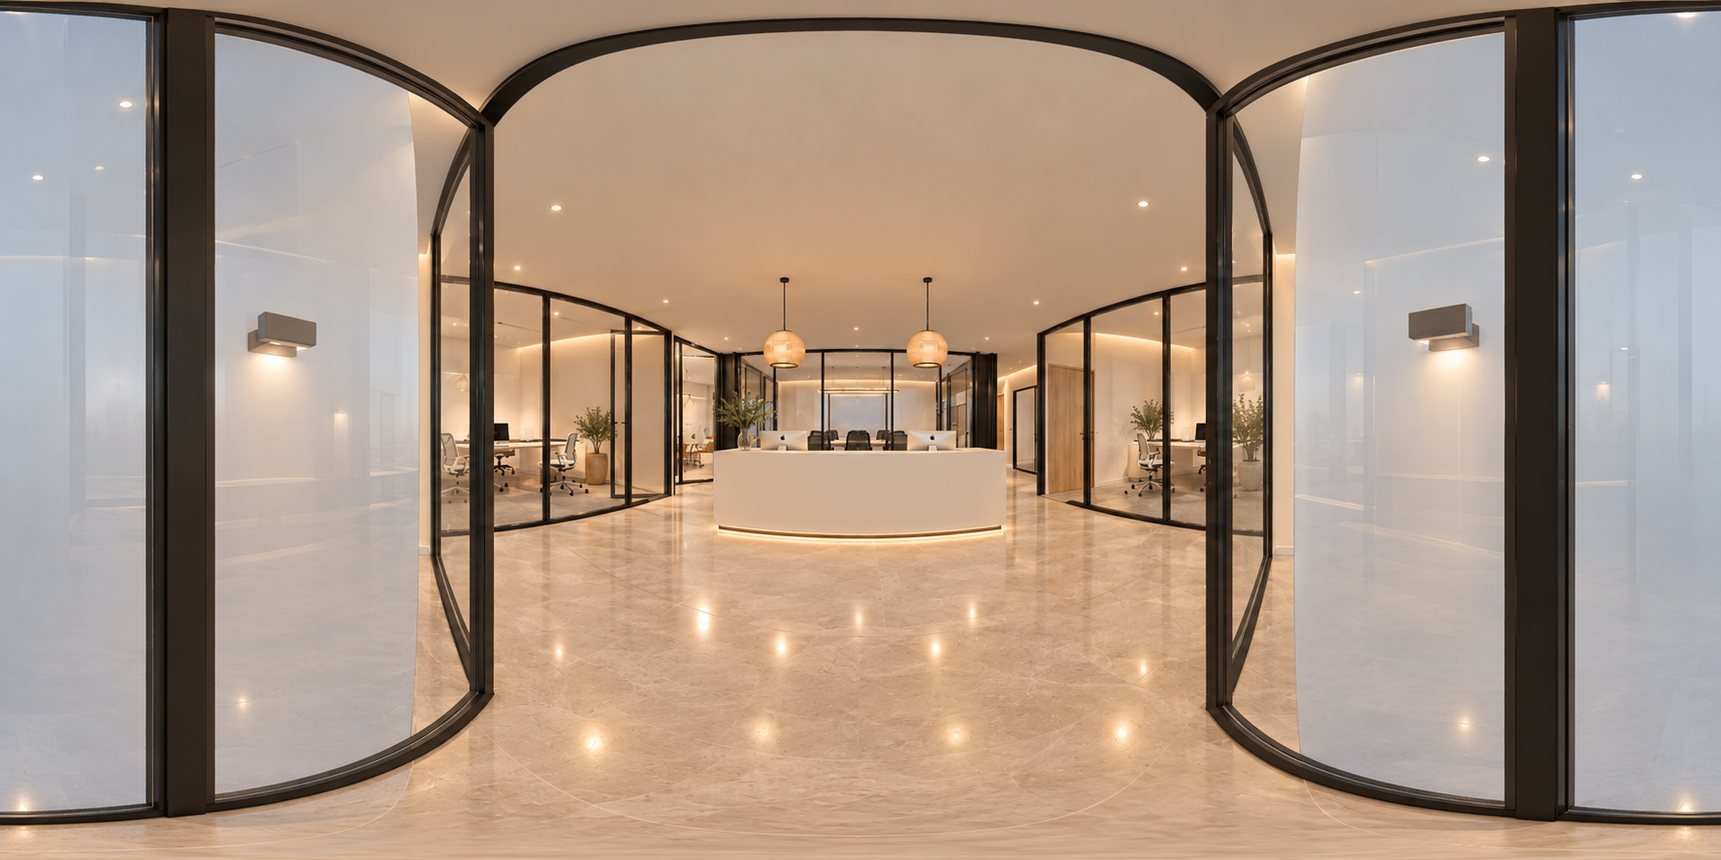
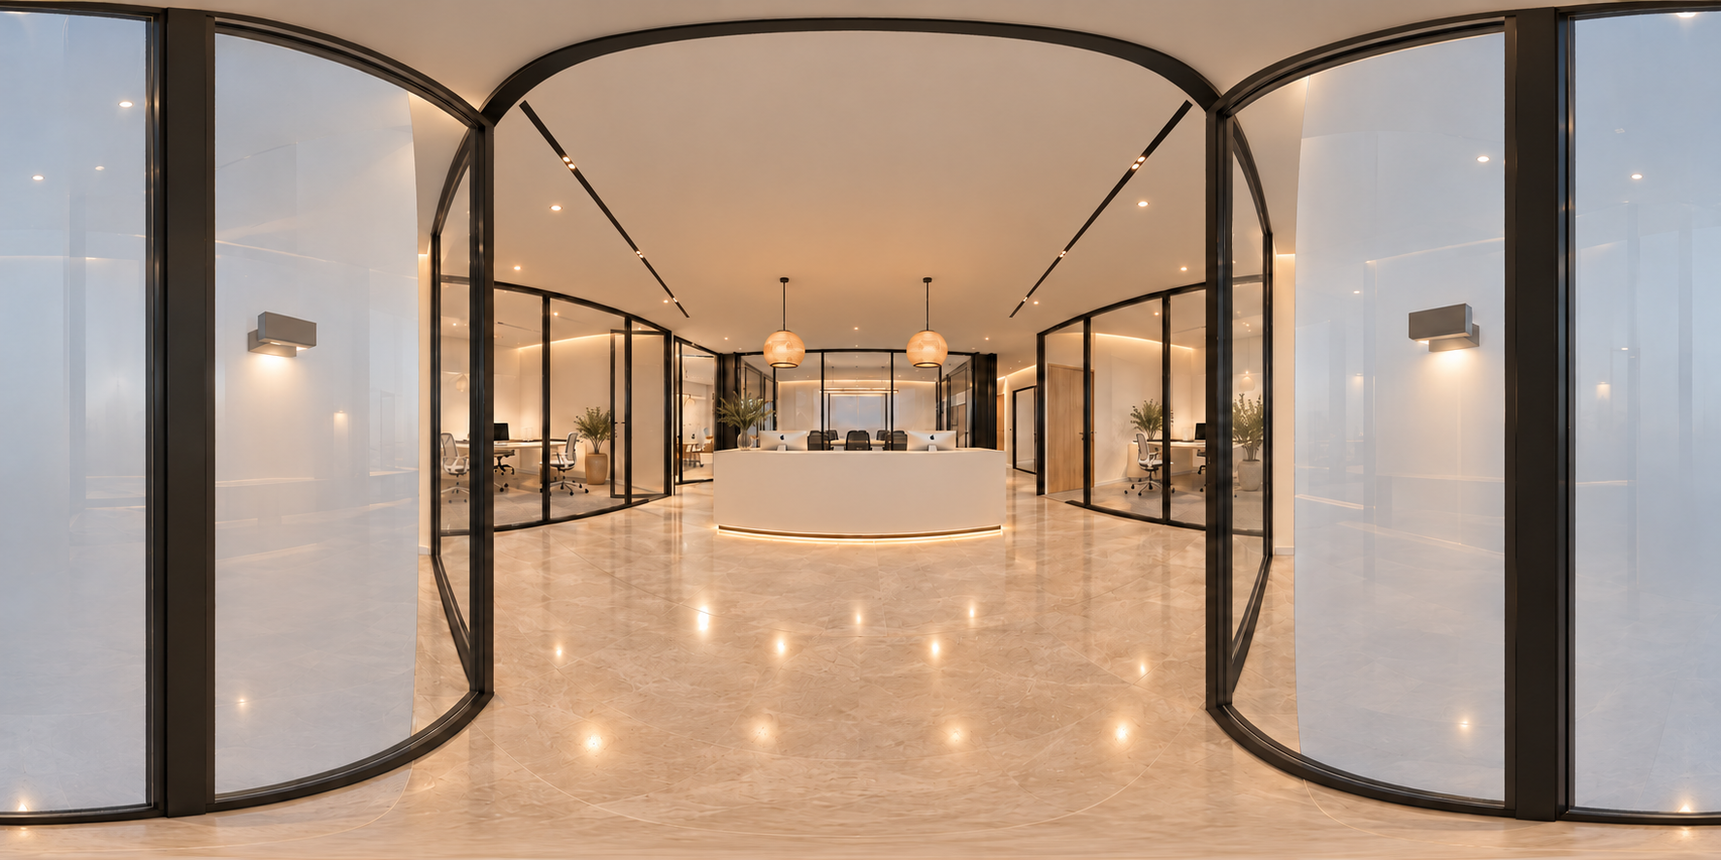
RENDU

diff --git a/viewer.html b/viewer.html
@@ -1,9 +1,10 @@
 <!doctype html><html lang="fr"><head><meta charset="utf-8"><meta name="viewport" content="width=device-width,initial-scale=1"><title>Parcours — Hatem Ellouze</title><style>
 *{box-sizing:border-box}body{margin:0;background:#151612;color:#fff;font:14px system-ui,sans-serif}button{font:inherit;color:inherit;cursor:pointer}button:focus-visible,canvas:focus-visible{outline:3px solid #e8c89d;outline-offset:4px}#tour{position:relative;height:100dvh;min-height:420px;overflow:hidden}canvas{display:block;width:100%;height:100%;touch-action:none;cursor:grab;transition:opacity .22s}canvas:active{cursor:grabbing}header{position:absolute;inset:0 0 auto;padding:26px 30px 65px;background:linear-gradient(#0009,transparent);pointer-events:none;display:flex;justify-content:space-between;gap:20px}.eyebrow{font-size:10px;letter-spacing:3px;text-transform:uppercase;opacity:.85}h1{font:normal clamp(23px,3vw,37px) Georgia,serif;margin:9px 0 5px}#level{font-size:12px;opacity:.8}#count{font-size:13px;letter-spacing:2px;padding-top:7px}.glass{border:1px solid #ffffff30;background:#22241ee6;backdrop-filter:blur(15px);border-radius:24px;padding:11px 17px}.glass:hover{background:#454336}#toolbar{position:absolute;bottom:22px;left:15px;right:15px;display:flex;justify-content:center;flex-wrap:wrap;gap:7px}#hint{position:absolute;bottom:82px;left:15px;right:15px;text-align:center;font-size:12px;text-shadow:0 1px 6px #000;pointer-events:none}#status{position:absolute;left:50%;top:50%;transform:translate(-50%,-50%);background:#20211cdd;padding:18px 24px;border-radius:14px;z-index:9;text-align:center}#spots{position:absolute;inset:0;pointer-events:none}.spot{position:absolute;transform:translate(-50%,-50%);border:0;background:transparent;pointer-events:auto;display:flex;flex-direction:column;align-items:center;gap:6px;white-space:nowrap;padding:8px;filter:drop-shadow(0 2px 5px #0009)}.spot[hidden]{display:none}.spot b{display:grid;place-items:center;width:44px;height:44px;border-radius:50%;border:2px solid #fff;background:#fcf4dfed;color:#443a28;font-size:23px;box-shadow:0 0 0 7px #ffffff25;transition:transform .15s}.spot:hover b{transform:scale(1.13);background:#fff}.spot span{background:#24271de6;border:1px solid #ffffff30;padding:6px 10px;border-radius:16px;font-size:12px}.drawer{position:absolute;inset:0;background:#141710f5;z-index:20;padding:25px;overflow:auto}.drawer[hidden]{display:none}.drawer-top{display:flex;align-items:center;justify-content:space-between;gap:20px;margin-bottom:24px}.drawer h2{font:normal 30px Georgia;margin:0}.grid{display:grid;grid-template-columns:repeat(auto-fit,minmax(230px,1fr));gap:16px;max-width:1300px;margin:auto}.card{text-align:left;border:1px solid #ffffff22;background:#24271f;border-radius:14px;padding:0;overflow:hidden}.card img{display:block;width:100%;height:145px;object-fit:cover}.card .caption{display:block;padding:14px}.card strong{display:block;font-weight:500;font-size:16px}.card small{display:block;margin-top:5px;opacity:.65}.card[aria-current=true]{border-color:#e1bd84}.gallery-grid img{height:300px;object-fit:contain;background:#ecebe4}.gallery-grid{grid-template-columns:repeat(auto-fit,minmax(280px,1fr))}#lightbox{z-index:30;display:flex;flex-direction:column;align-items:center;justify-content:center;gap:12px}#lightbox[hidden]{display:none}#large{max-width:100%;max-height:82vh;object-fit:contain}#closeImage{position:absolute;right:20px;top:20px}#helpText{line-height:1.8;max-width:620px;margin:50px auto;font-size:17px}#editorInfo{display:none;position:absolute;top:135px;left:20px;z-index:12;background:#222e;padding:12px;border-radius:12px;max-width:300px}#editorInfo input{width:100%;padding:8px;margin-top:6px}.small{font-size:12px;opacity:.7}@media(max-width:600px){header{padding:22px 18px 60px}#toolbar{bottom:12px;gap:5px}.glass{padding:10px 12px;font-size:12px}#hint{bottom:108px;font-size:11px}#count{display:none}.spot span{max-width:135px;white-space:normal}.drawer{padding:18px}.grid{grid-template-columns:1fr 1fr;gap:10px}.card img{height:105px}.card .caption{padding:10px}.card strong{font-size:13px}.gallery-grid{grid-template-columns:1fr}.gallery-grid img{height:270px}}
-#detailPanel{display:flex;flex-direction:column;gap:16px}#detailPanel[hidden]{display:none}#detailScroll{flex:1;min-height:0;overflow:auto;background:#10120e;text-align:center}#detailImage{max-width:100%;max-height:100%;object-fit:contain;display:block;margin:auto}#detailImage.native{max-width:none;max-height:none}.detailTools{display:flex;flex-wrap:wrap;gap:8px;align-items:center;justify-content:space-between}</style></head><body><main id="tour"><canvas id="view" tabindex="0" aria-label="Vue panoramique : faites glisser pour regarder autour de vous. Flèches du clavier pour tourner."></canvas><div id="spots"></div><header><div><div class="eyebrow">Hatem Ellouze · Architecture</div><h1 id="sceneTitle"></h1><div id="level"></div></div><div id="count"></div></header><div id="status" role="status" aria-live="polite">Préparation de la visite…</div><div id="hint">Faites glisser pour regarder · Cliquez sur les repères pour avancer</div><nav id="toolbar" aria-label="Commandes de visite"><button class="glass" id="back" aria-label="Revenir au point précédent">↶ Retour</button><button class="glass" id="spaces">Espaces</button><button class="glass" id="gallery">Axonométries</button><button class="glass" id="detail">Rendu détaillé</button><button class="glass" id="home">Recentrer</button><button class="glass" id="minus" aria-label="Dézoomer">−</button><button class="glass" id="plus" aria-label="Zoomer">+</button><button class="glass" id="full">Plein écran</button><button class="glass" id="help" aria-label="Aide">?</button></nav><div id="editorInfo">Placez la destination au centre de l’image, puis copiez ces coordonnées dans l’administration.<input id="coords" readonly aria-label="Coordonnées du centre de la vue"></div><section id="spacesPanel" class="drawer" hidden><div class="drawer-top"><h2>Les espaces</h2><button class="glass" data-close>Revenir à la visite ×</button></div><div id="sceneGrid" class="grid"></div></section><section id="galleryPanel" class="drawer" hidden><div class="drawer-top"><h2>Le projet en axonométrie</h2><button class="glass" data-close>Revenir à la visite ×</button></div><div id="galleryGrid" class="grid gallery-grid"></div></section><section id="helpPanel" class="drawer" hidden><div class="drawer-top"><h2>Explorer le projet</h2><button class="glass" data-close>Fermer ×</button></div><div id="helpText"><p>Faites glisser l’image avec la souris ou le doigt pour regarder à 360°. La molette et les boutons + / − permettent de zoomer.</p><p>Cliquez sur les repères ronds dans l’espace pour rejoindre le point de vue indiqué. Chaque point ouvre un panorama complet.</p><p>« Espaces » donne accès à tous les lieux. « Retour » vous ramène au point précédent. Les axonométries s’ouvrent en images, sans interrompre votre parcours.</p><p class="small">Au clavier : flèches pour regarder, Tab et Entrée pour activer les commandes, Échap pour fermer les panneaux.</p></div></section><section id="lightbox" class="drawer" hidden><button id="closeImage" class="glass">Fermer ×</button><img id="large" alt=""><div id="largeTitle"></div></section><section id="detailPanel" class="drawer" hidden><div class="detailTools"><div><h2 id="detailTitle">Rendu détaillé</h2><p class="small">Vue fixe · référence fournie</p></div><button id="nativeSize" class="glass">Taille réelle</button><button class="glass" data-close>Revenir au panorama ×</button></div><div id="detailScroll"><img id="detailImage" alt=""></div></section></main><script>
+#detailPanel{display:flex;flex-direction:column;gap:16px}#detailPanel[hidden]{display:none}#detailScroll{flex:1;min-height:0;overflow:auto;background:#10120e;text-align:center}#detailImage{max-width:100%;max-height:100%;object-fit:contain;display:block;margin:auto}#detailImage.native{max-width:none;max-height:none}.detailTools{display:flex;flex-wrap:wrap;gap:8px;align-items:center;justify-content:space-between}</style></head><body><main id="tour"><canvas id="view" tabindex="0" aria-label="Vue panoramique : faites glisser pour regarder autour de vous. Flèches du clavier pour tourner."></canvas><div id="spots"></div><header><div><div class="eyebrow">Hatem Ellouze · Architecture</div><h1 id="sceneTitle"></h1><div id="level"></div></div><div id="count"></div></header><div id="status" role="status" aria-live="polite">Préparation de la visite…</div><div id="hint">Faites glisser pour regarder · Cliquez sur les repères pour avancer</div><nav id="toolbar" aria-label="Commandes de visite"><button class="glass" id="back" aria-label="Revenir au point précédent">↶ Retour</button><button class="glass" id="spaces">Espaces</button><button class="glass" id="gallery">Axonométries</button><button class="glass" id="detail">Rendu détaillé</button><button class="glass" id="clarity" title="Changer la netteté de l’affichage">Netteté : douce</button><button class="glass" id="home">Recentrer</button><button class="glass" id="minus" aria-label="Dézoomer">−</button><button class="glass" id="plus" aria-label="Zoomer">+</button><button class="glass" id="full">Plein écran</button><button class="glass" id="help" aria-label="Aide">?</button></nav><div id="editorInfo">Placez la destination au centre de l’image, puis copiez ces coordonnées dans l’administration.<input id="coords" readonly aria-label="Coordonnées du centre de la vue"></div><section id="spacesPanel" class="drawer" hidden><div class="drawer-top"><h2>Les espaces</h2><button class="glass" data-close>Revenir à la visite ×</button></div><div id="sceneGrid" class="grid"></div></section><section id="galleryPanel" class="drawer" hidden><div class="drawer-top"><h2>Le projet en axonométrie</h2><button class="glass" data-close>Revenir à la visite ×</button></div><div id="galleryGrid" class="grid gallery-grid"></div></section><section id="helpPanel" class="drawer" hidden><div class="drawer-top"><h2>Explorer le projet</h2><button class="glass" data-close>Fermer ×</button></div><div id="helpText"><p>Faites glisser l’image avec la souris ou le doigt pour regarder à 360°. La molette et les boutons + / − permettent de zoomer.</p><p>Cliquez sur les repères ronds dans l’espace pour rejoindre le point de vue indiqué. Chaque point ouvre un panorama complet.</p><p>« Espaces » donne accès à tous les lieux. « Retour » vous ramène au point précédent. Les axonométries s’ouvrent en images, sans interrompre votre parcours.</p><p>« Netteté » alterne entre l’affichage original, une accentuation douce et une accentuation renforcée. Ce réglage améliore les contours existants sans augmenter la résolution des panoramas.</p><p class="small">Au clavier : flèches pour regarder, Tab et Entrée pour activer les commandes, Échap pour fermer les panneaux.</p></div></section><section id="lightbox" class="drawer" hidden><button id="closeImage" class="glass">Fermer ×</button><img id="large" alt=""><div id="largeTitle"></div></section><section id="detailPanel" class="drawer" hidden><div class="detailTools"><div><h2 id="detailTitle">Rendu détaillé</h2><p class="small">Vue fixe · référence fournie</p></div><button id="nativeSize" class="glass">Taille réelle</button><button class="glass" data-close>Revenir au panorama ×</button></div><div id="detailScroll"><img id="detailImage" alt=""></div></section></main><script>
 'use strict';
 const DATA=__PAYLOAD__;
 const $=id=>document.getElementById(id),canvas=$('view'),gl=canvas.getContext('webgl',{antialias:true,alpha:false});
+let clarityMode=1;const clarityLevels=[0,.45,.8],clarityLabels=["originale","douce","renforcée"];
 let yaw=0,pitch=0,fov=72,ready=false,current=null,history=[],spotEls=[],loadToken=0,lastFocus=null;
 const scenes=new Map(DATA.scenes.map(s=>[s.id,s])),cache=new Map();
 const clamp=(v,a,b)=>Math.max(a,Math.min(b,v));
@@ -16,17 +17,37 @@ function updateSpots(){let w=canvas.clientWidth,h=canvas.clientHeight;spotEls.fo
 let draw=()=>{};
 if(!gl)fail('Votre navigateur ne peut pas afficher la visite 360°. Essayez Chrome ou Edge avec l’accélération graphique activée.');else{try{
 const vs='attribute vec2 p;varying vec2 uv;void main(){uv=p;gl_Position=vec4(p,0.,1.);}';
-const fs='precision highp float;varying vec2 uv;uniform sampler2D tex;uniform float yaw;uniform float pitch;uniform float fov;uniform float aspect;const float PI=3.14159265359;void main(){vec3 d=normalize(vec3(uv.x*aspect*tan(fov/2.),uv.y*tan(fov/2.),1.));float c=cos(pitch),s=sin(pitch);d=vec3(d.x,c*d.y+s*d.z,-s*d.y+c*d.z);c=cos(yaw);s=sin(yaw);d=vec3(c*d.x+s*d.z,d.y,-s*d.x+c*d.z);gl_FragColor=texture2D(tex,vec2(fract(.5+atan(d.x,d.z)/(2.*PI)),.5-asin(clamp(d.y,-1.,1.))/PI));}';
+const fs=`precision highp float;
+varying vec2 uv;
+uniform sampler2D tex;
+uniform float yaw,pitch,fov,aspect,clarity;
+uniform vec2 texel;
+const float PI=3.14159265359;
+vec3 sampleP(vec2 q){return texture2D(tex,vec2(fract(q.x),clamp(q.y,texel.y*.5,1.-texel.y*.5))).rgb;}
+void main(){
+vec3 d=normalize(vec3(uv.x*aspect*tan(fov/2.),uv.y*tan(fov/2.),1.));
+float c=cos(pitch),s=sin(pitch);
+d=vec3(d.x,c*d.y+s*d.z,-s*d.y+c*d.z);c=cos(yaw);s=sin(yaw);
+d=vec3(c*d.x+s*d.z,d.y,-s*d.x+c*d.z);
+vec2 q=vec2(fract(.5+atan(d.x,d.z)/(2.*PI)),.5-asin(clamp(d.y,-1.,1.))/PI);
+vec3 center=sampleP(q);
+vec3 mean=(sampleP(q+vec2(texel.x,0.))+sampleP(q-vec2(texel.x,0.))+sampleP(q+vec2(0.,texel.y))+sampleP(q-vec2(0.,texel.y)))*.25;
+// Bound enhancement to avoid bright/dark fringes; no invented geometry.
+vec3 detail=clamp(center-mean,vec3(-.045),vec3(.045));
+float poleFade=smoothstep(0.,.06,q.y)*smoothstep(0.,.06,1.-q.y);
+gl_FragColor=vec4(clamp(center+detail*clarity*poleFade,0.,1.),1.);
+}`;
 function shader(type,src){const s=gl.createShader(type);gl.shaderSource(s,src);gl.compileShader(s);if(!gl.getShaderParameter(s,gl.COMPILE_STATUS))throw Error('Affichage 360° indisponible.');return s}
 const program=gl.createProgram();gl.attachShader(program,shader(gl.VERTEX_SHADER,vs));gl.attachShader(program,shader(gl.FRAGMENT_SHADER,fs));gl.linkProgram(program);if(!gl.getProgramParameter(program,gl.LINK_STATUS))throw Error('Affichage 360° indisponible.');gl.useProgram(program);
 const buf=gl.createBuffer();gl.bindBuffer(gl.ARRAY_BUFFER,buf);gl.bufferData(gl.ARRAY_BUFFER,new Float32Array([-1,-1,1,-1,-1,1,-1,1,1,-1,1,1]),gl.STATIC_DRAW);let loc=gl.getAttribLocation(program,'p');gl.enableVertexAttribArray(loc);gl.vertexAttribPointer(loc,2,gl.FLOAT,false,0,0);
-const uni=Object.fromEntries(['yaw','pitch','fov','aspect'].map(n=>[n,gl.getUniformLocation(program,n)])),tex=gl.createTexture();gl.bindTexture(gl.TEXTURE_2D,tex);gl.texParameteri(gl.TEXTURE_2D,gl.TEXTURE_WRAP_S,gl.CLAMP_TO_EDGE);gl.texParameteri(gl.TEXTURE_2D,gl.TEXTURE_WRAP_T,gl.CLAMP_TO_EDGE);gl.texParameteri(gl.TEXTURE_2D,gl.TEXTURE_MIN_FILTER,gl.LINEAR);gl.texParameteri(gl.TEXTURE_2D,gl.TEXTURE_MAG_FILTER,gl.LINEAR);
-draw=()=>{if(!ready)return;const r=Math.min(devicePixelRatio||1,2),w=Math.max(1,Math.round(canvas.clientWidth*r)),h=Math.max(1,Math.round(canvas.clientHeight*r));if(canvas.width!==w||canvas.height!==h){canvas.width=w;canvas.height=h;gl.viewport(0,0,w,h)}pitch=clamp(pitch,-1.45,1.45);fov=clamp(fov,42,100);gl.uniform1f(uni.yaw,yaw);gl.uniform1f(uni.pitch,pitch);gl.uniform1f(uni.fov,fov*Math.PI/180);gl.uniform1f(uni.aspect,w/h);gl.drawArrays(gl.TRIANGLES,0,6);updateSpots()};
-async function go(id,record=true,keepHeading=false){const next=scenes.get(id);if(!next)return;const token=++loadToken,previous=current,view={yaw,pitch,fov};ready=false;updateSpots();canvas.style.opacity='.2';$('status').hidden=false;$('status').textContent='Vers '+next.title+'…';try{const im=await image(next.src);if(token!==loadToken)return;if(im.width>gl.getParameter(gl.MAX_TEXTURE_SIZE)||im.height>gl.getParameter(gl.MAX_TEXTURE_SIZE))throw Error('Image trop grande pour cet appareil.');gl.texImage2D(gl.TEXTURE_2D,0,gl.RGB,gl.RGB,gl.UNSIGNED_BYTE,im);if(record&&previous&&previous.id!==id)history.push({id:previous.id,...view});yaw=keepHeading&&previous?view.yaw+(previous.heading||0)-(next.heading||0):(next.yaw||0);pitch=0;fov=72;current=next;ready=true;$('detail').disabled=!next.detailSrc;$('sceneTitle').textContent=next.title;$('level').textContent=next.level;$('count').textContent=String(DATA.scenes.indexOf(next)+1).padStart(2,'0')+' / '+String(DATA.scenes.length).padStart(2,'0');$('spots').replaceChildren();spotEls=[];(next.links||[]).forEach(spot=>{if(!scenes.has(spot.to))return;const el=document.createElement('button');el.className='spot';el.innerHTML='<b aria-hidden="true">'+(spot.kind==='up'?'↗':spot.kind==='down'?'↘':'↑')+'</b><span></span>';el.querySelector('span').textContent=spot.label||scenes.get(spot.to).title;el.setAttribute('aria-label','Aller vers '+(spot.label||scenes.get(spot.to).title));el.onclick=()=>go(spot.to,true,true);$('spots').append(el);spotEls.push({el,spot})});document.querySelectorAll('#sceneGrid .card').forEach(el=>el.setAttribute('aria-current',el.dataset.id===id));$('back').disabled=!history.length;$('status').hidden=true;canvas.style.opacity='1';draw();(next.links||[]).slice(0,2).forEach(h=>{const s=scenes.get(h.to);if(s)image(s.src).catch(()=>{})})}catch(e){if(token!==loadToken)return;canvas.style.opacity='1';ready=!!current;fail(e.message);draw()}}
+const uni=Object.fromEntries(['yaw','pitch','fov','aspect','clarity','texel'].map(n=>[n,gl.getUniformLocation(program,n)])),tex=gl.createTexture();gl.bindTexture(gl.TEXTURE_2D,tex);gl.texParameteri(gl.TEXTURE_2D,gl.TEXTURE_WRAP_S,gl.CLAMP_TO_EDGE);gl.texParameteri(gl.TEXTURE_2D,gl.TEXTURE_WRAP_T,gl.CLAMP_TO_EDGE);gl.texParameteri(gl.TEXTURE_2D,gl.TEXTURE_MIN_FILTER,gl.LINEAR);gl.texParameteri(gl.TEXTURE_2D,gl.TEXTURE_MAG_FILTER,gl.LINEAR);
+draw=()=>{if(!ready)return;const r=Math.min(devicePixelRatio||1,2),w=Math.max(1,Math.round(canvas.clientWidth*r)),h=Math.max(1,Math.round(canvas.clientHeight*r));if(canvas.width!==w||canvas.height!==h){canvas.width=w;canvas.height=h;gl.viewport(0,0,w,h)}pitch=clamp(pitch,-1.45,1.45);fov=clamp(fov,42,100);gl.uniform1f(uni.yaw,yaw);gl.uniform1f(uni.pitch,pitch);gl.uniform1f(uni.fov,fov*Math.PI/180);gl.uniform1f(uni.aspect,w/h);gl.uniform1f(uni.clarity,clarityLevels[clarityMode]);gl.drawArrays(gl.TRIANGLES,0,6);updateSpots()};
+async function go(id,record=true,keepHeading=false){const next=scenes.get(id);if(!next)return;const token=++loadToken,previous=current,view={yaw,pitch,fov};ready=false;updateSpots();canvas.style.opacity='.2';$('status').hidden=false;$('status').textContent='Vers '+next.title+'…';try{const im=await image(next.src);if(token!==loadToken)return;if(im.width>gl.getParameter(gl.MAX_TEXTURE_SIZE)||im.height>gl.getParameter(gl.MAX_TEXTURE_SIZE))throw Error('Image trop grande pour cet appareil.');gl.texImage2D(gl.TEXTURE_2D,0,gl.RGB,gl.RGB,gl.UNSIGNED_BYTE,im);gl.uniform2f(uni.texel,1/im.width,1/im.height);if(record&&previous&&previous.id!==id)history.push({id:previous.id,...view});yaw=keepHeading&&previous?view.yaw+(previous.heading||0)-(next.heading||0):(next.yaw||0);pitch=0;fov=72;current=next;ready=true;$('detail').disabled=!next.detailSrc;$('sceneTitle').textContent=next.title;$('level').textContent=next.level;$('count').textContent=String(DATA.scenes.indexOf(next)+1).padStart(2,'0')+' / '+String(DATA.scenes.length).padStart(2,'0');$('spots').replaceChildren();spotEls=[];(next.links||[]).forEach(spot=>{if(!scenes.has(spot.to))return;const el=document.createElement('button');el.className='spot';el.innerHTML='<b aria-hidden="true">'+(spot.kind==='up'?'↗':spot.kind==='down'?'↘':'↑')+'</b><span></span>';el.querySelector('span').textContent=spot.label||scenes.get(spot.to).title;el.setAttribute('aria-label','Aller vers '+(spot.label||scenes.get(spot.to).title));el.onclick=()=>go(spot.to,true,true);$('spots').append(el);spotEls.push({el,spot})});document.querySelectorAll('#sceneGrid .card').forEach(el=>el.setAttribute('aria-current',el.dataset.id===id));$('back').disabled=!history.length;$('status').hidden=true;canvas.style.opacity='1';draw();(next.links||[]).slice(0,2).forEach(h=>{const s=scenes.get(h.to);if(s)image(s.src).catch(()=>{})})}catch(e){if(token!==loadToken)return;canvas.style.opacity='1';ready=!!current;fail(e.message);draw()}}
 window.goScene=go;
 $('back').onclick=async()=>{if(!history.length)return;const prev=history.pop();await go(prev.id,false);yaw=prev.yaw;pitch=prev.pitch;fov=prev.fov;draw()};
 new ResizeObserver(draw).observe(canvas);
 const pointers=new Map();let pinch=0;canvas.onpointerdown=e=>{pointers.set(e.pointerId,[e.clientX,e.clientY]);canvas.setPointerCapture(e.pointerId);canvas.focus();if(pointers.size===2){const a=[...pointers.values()];pinch=Math.hypot(a[0][0]-a[1][0],a[0][1]-a[1][1])}};canvas.onpointermove=e=>{if(!pointers.has(e.pointerId))return;const prev=pointers.get(e.pointerId);pointers.set(e.pointerId,[e.clientX,e.clientY]);if(pointers.size===2){const a=[...pointers.values()],d=Math.hypot(a[0][0]-a[1][0],a[0][1]-a[1][1]);fov+=(pinch-d)*.15;pinch=d}else{yaw-=(e.clientX-prev[0])*.004;pitch+=(e.clientY-prev[1])*.004}draw()};canvas.onpointerup=canvas.onpointercancel=e=>pointers.delete(e.pointerId);canvas.addEventListener('wheel',e=>{e.preventDefault();fov+=e.deltaY*.035;draw()},{passive:false});canvas.onkeydown=e=>{if(!['ArrowLeft','ArrowRight','ArrowUp','ArrowDown'].includes(e.key))return;e.preventDefault();if(e.key==='ArrowLeft')yaw-=.12;if(e.key==='ArrowRight')yaw+=.12;if(e.key==='ArrowUp')pitch+=.1;if(e.key==='ArrowDown')pitch-=.1;draw()};
+$('clarity').onclick=()=>{clarityMode=(clarityMode+1)%clarityLevels.length;$('clarity').textContent='Netteté : '+clarityLabels[clarityMode];draw()};
 $('home').onclick=()=>{yaw=current?.yaw||0;pitch=0;fov=72;draw()};$('minus').onclick=()=>{fov+=8;draw()};$('plus').onclick=()=>{fov-=8;draw()};
 DATA.scenes.forEach(s=>{const el=document.createElement('button');el.className='card';el.dataset.id=s.id;const im=document.createElement('img');im.src=s.thumb||s.src;im.alt='';im.loading='lazy';const cap=document.createElement('span');cap.className='caption';const name=document.createElement('strong');name.textContent=s.title;const level=document.createElement('small');level.textContent=s.level;cap.append(name,level);el.append(im,cap);el.onclick=()=>{closePanels();go(s.id)};$('sceneGrid').append(el)});
 go(DATA.start||DATA.scenes[0]?.id);

diff --git a/RENDU.md b/RENDU.md
@@ -18,3 +18,7 @@ Compléments de chaque demande :
 Les panoramas PNG sont les sorties originales, sans recadrage après génération. Les axonométries sont les images fournies (la vue générale reprend sa copie JPEG déjà intégrée à la première application).
 
 Retouche du 19 octobre — outil intégré imagegen : corriger le raccord incohérent au-dessus de la kitchenette en utilisant le panorama SketchUp comme référence géométrique, conserver les portes, vitrages, passages, mobilier et projection sphérique ; demander une sortie 3840 × 1920 nette et raccordable. La sortie réelle est 1774 × 887 ; elle est intégrée sans agrandissement artificiel.
+
+
+Correction des rubans noirs — 19 octobre 2026
+Accueil ID2 : deux rubans noirs avec spots. Salon ID3 : ruban côté vitrage. Couloir RDC ID5 : ruban longitudinal côté droit. Retouches imagegen intégrées à partir des panoramas existants et des trois nouvelles références. Consigne : conserver cadrage, architecture et mobilier, ajouter seulement les rails et améliorer subtilement la clarté. Sorties 1774 × 887 : la résolution et le flou au zoom ne sont pas résolus. Références détaillées mises à jour.

diff --git a/LISEZ_MOI.md b/LISEZ_MOI.md
@@ -74,3 +74,7 @@ Le raccord de plafond signalé au-dessus de la cuisine a été retouché. Le bou
 Les panoramas restent en 1774 × 887 pixels : la retouche n’a pas fourni de résolution native supérieure. Le flou au fort zoom 360° n’est donc pas résolu. Les vues détaillées ne sont pas de nouveaux panoramas haute résolution.
 
 Pour installer la mise à jour, remplacer app.py, pack.py, viewer.html et le dossier data/ complet dans le dépôt. Les secrets administrateur restent dans Streamlit.
+
+
+### Netteté réglable
+La visite démarre à l’accueil avec une accentuation douce de l’affichage. Le bouton Netteté permet de choisir originale, douce ou renforcée. Les neuf panoramas sources restent inchangés (1774 × 887) : aucune architecture ni mobilier n’est redessiné. Le filtre de contraste local est borné pour limiter les halos, avec raccord horizontal et atténuation aux pôles. Il ne reconstitue pas les détails absents ; le fort zoom reste limité.
